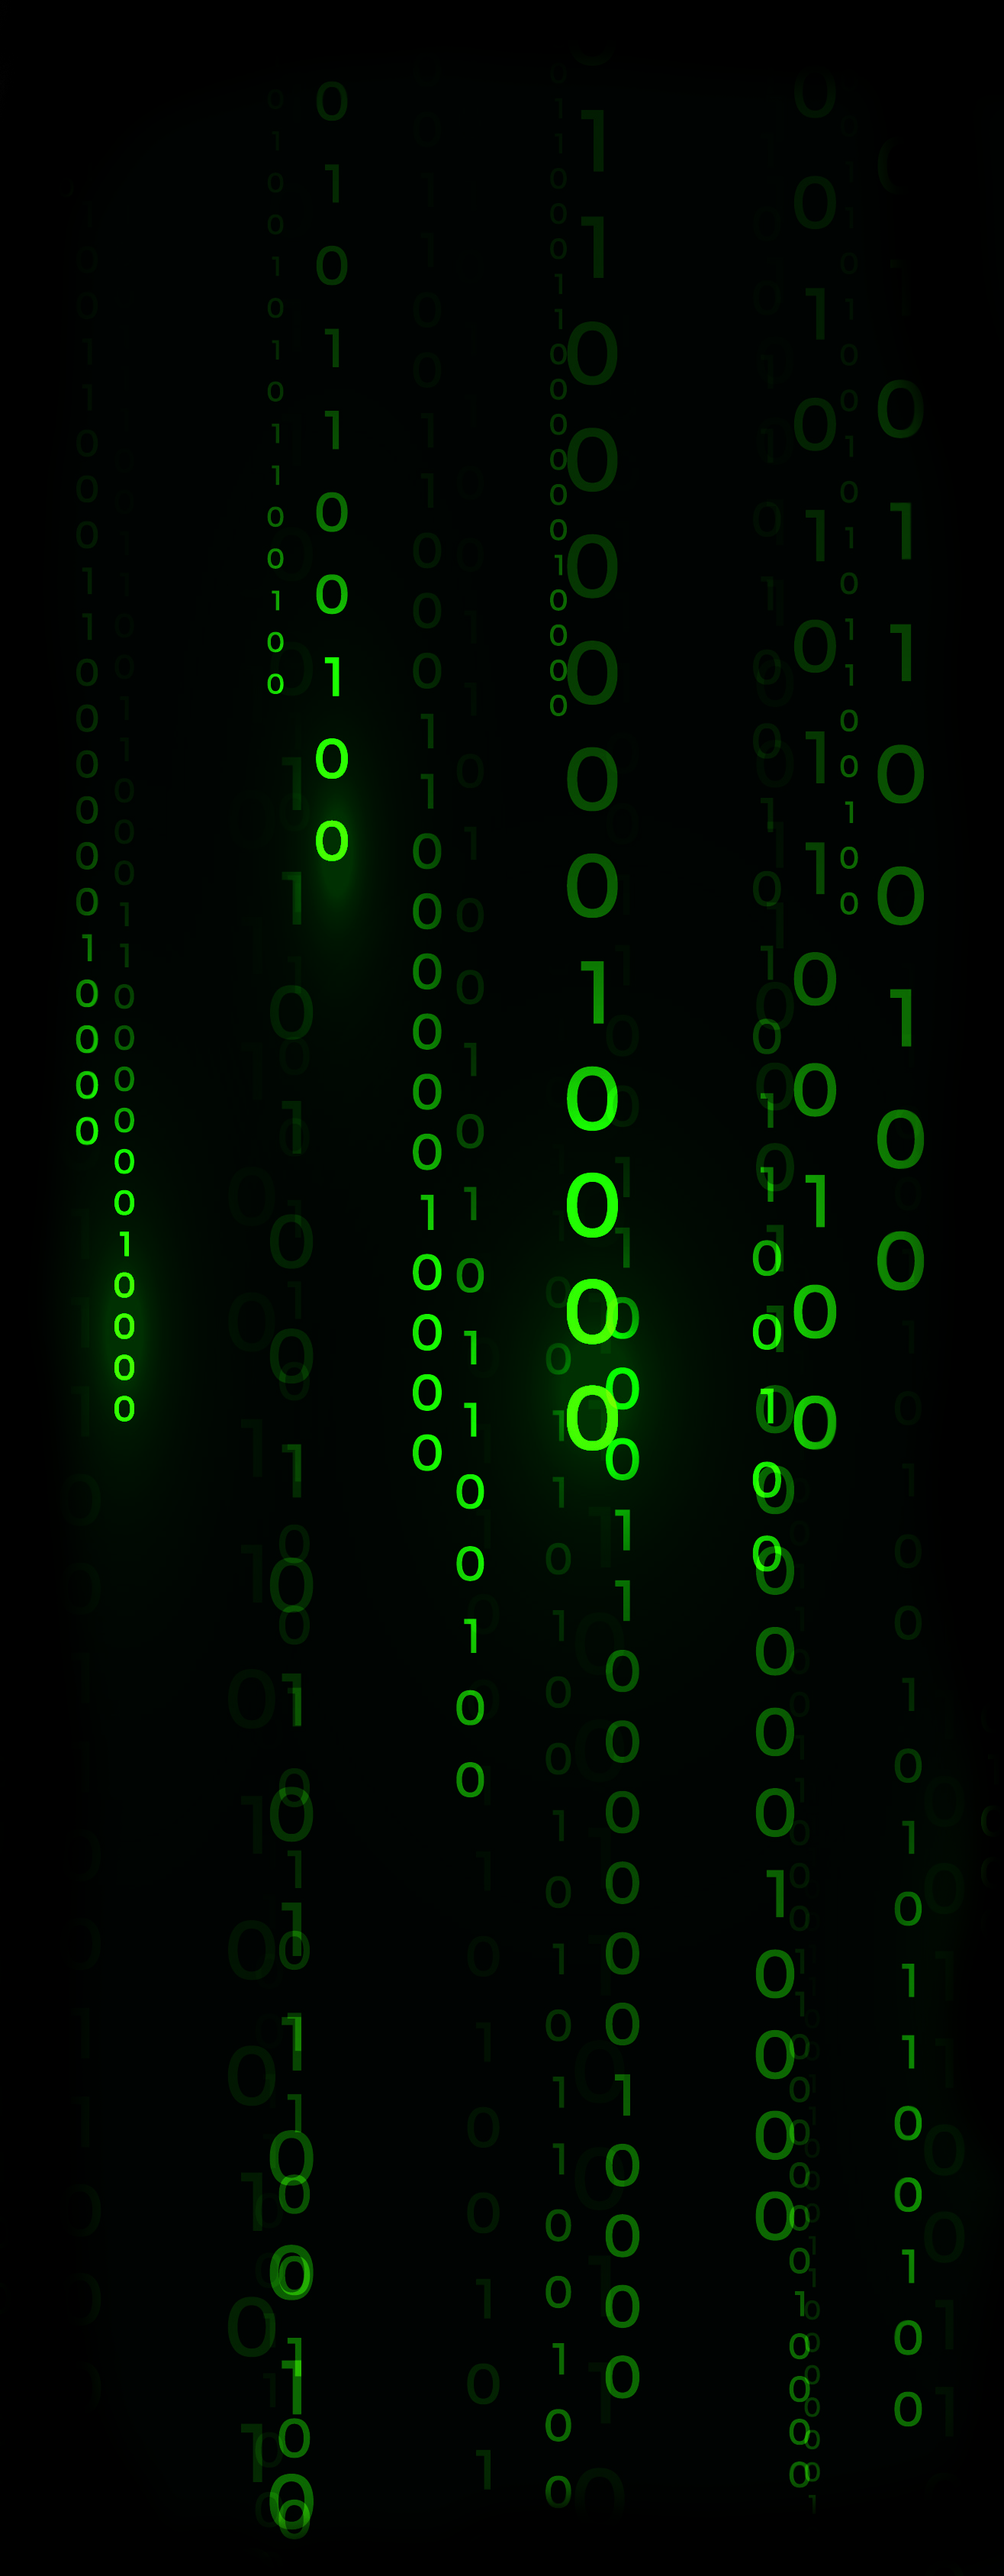
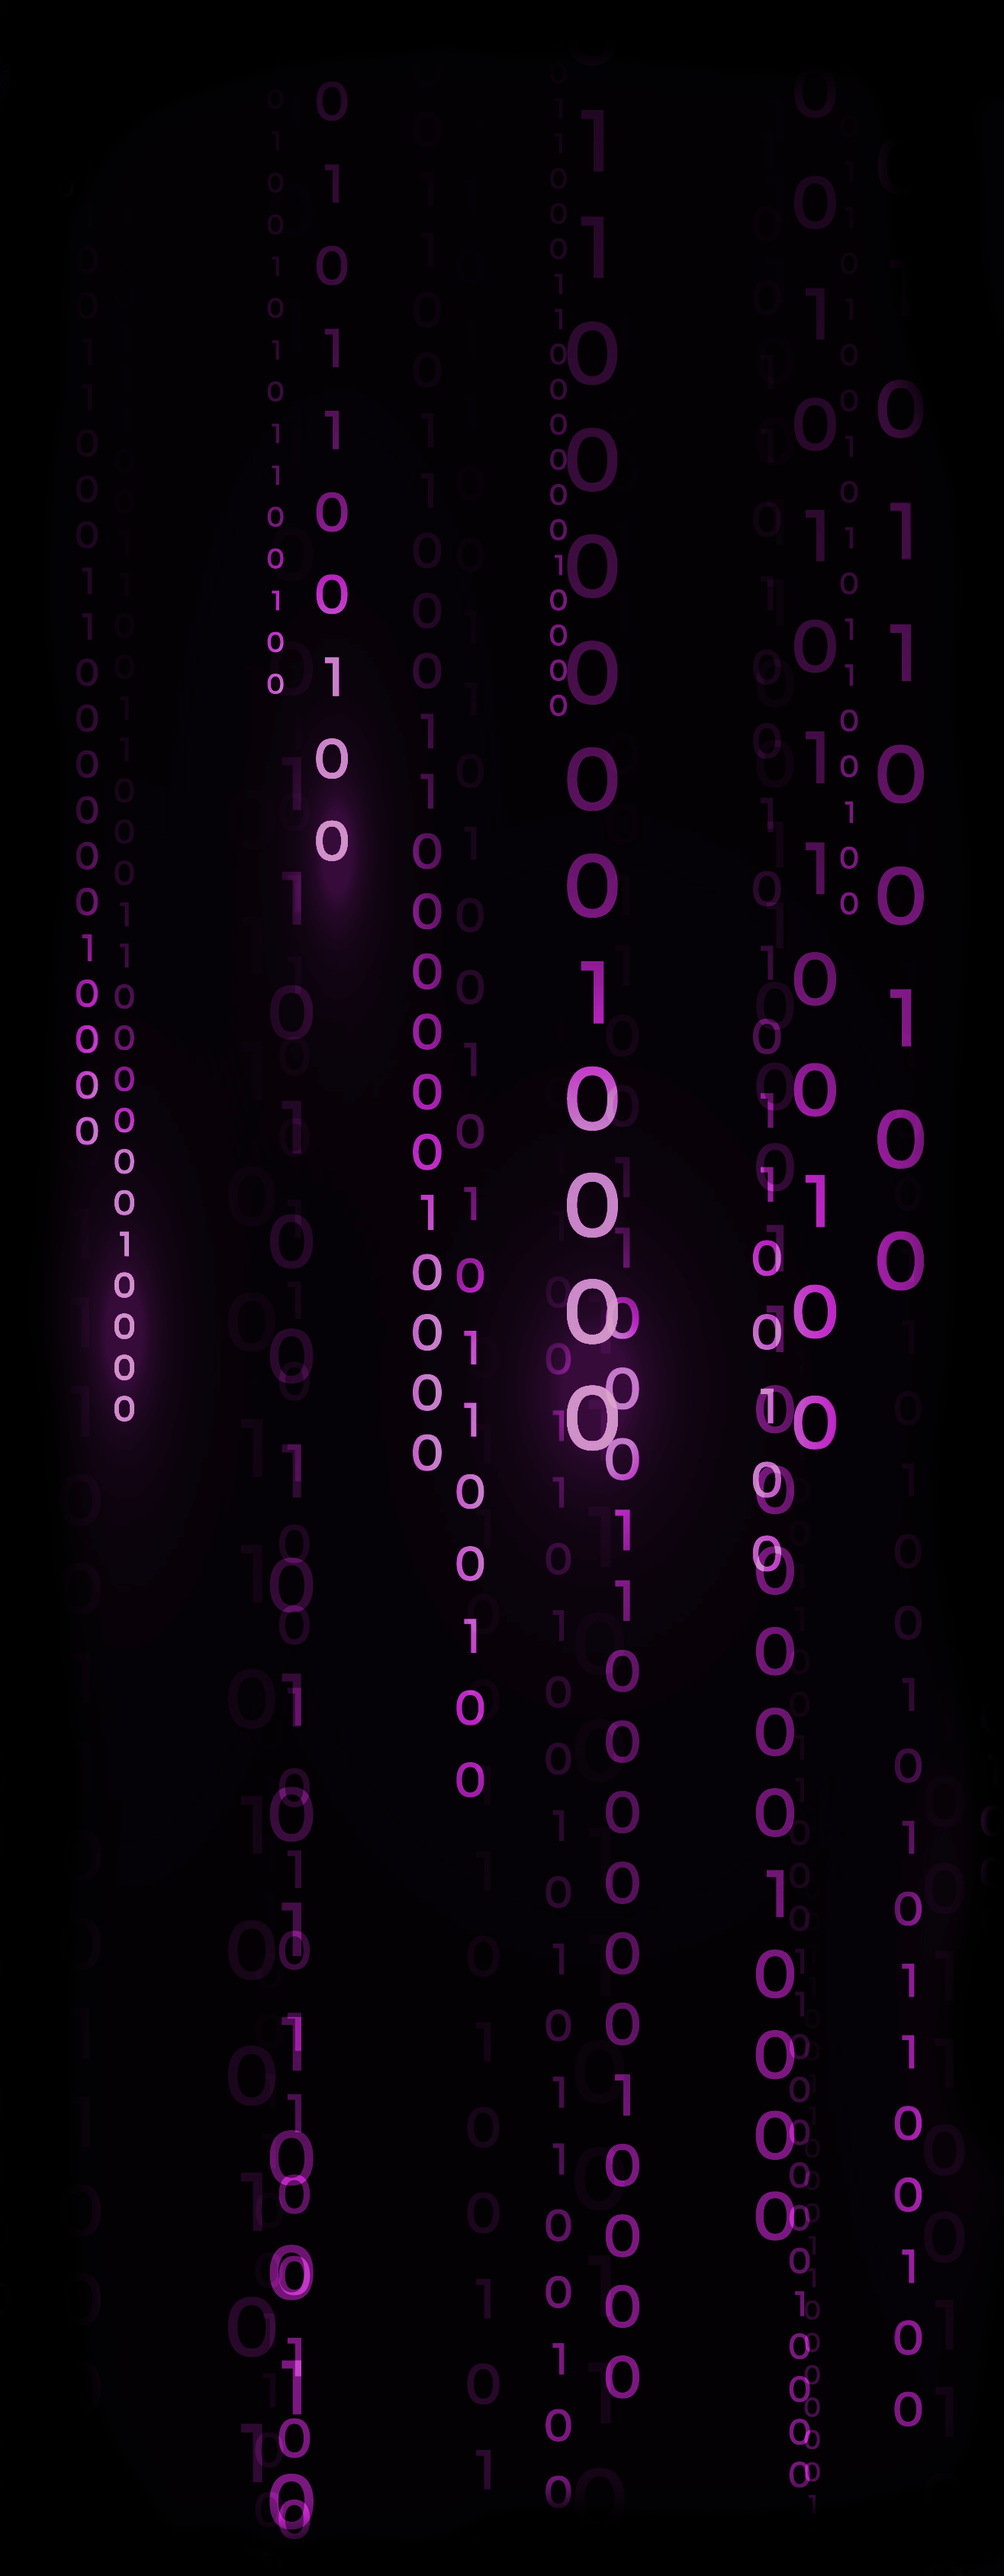
Maj: animations

diff --git a/src/layout/Header/Header.module.scss b/src/layout/Header/Header.module.scss
@@ -19,12 +19,21 @@ header{
     }
     
     .logo{  
-        flex: 0.2;
+        transform: rotate(0deg);
+        z-index: 111111;
+        animation: rotate 500ms;
+
+        &:hover{
+            transform-origin: center;
+            transform: rotate(360deg);
+            transition: 500ms;
+        }
         img{
             border: 3px solid variables.$secondary-color;
             border-radius: 50%;
             width: 70px;
             height: 70px;
+
 
             @media screen and (max-width: variables.$breakpoint-tablette) {
                 width: 60px;
@@ -138,5 +147,14 @@ header{
     }
     50% {
         border-color: variables.$secondary-color;
+    }
+}
+
+@keyframes rotate{
+    0%{
+        transform: rotate(0);
+    }
+    100%{
+        transform: rotate(360deg);
     }
 }

diff --git a/src/components/Banner/Banner.module.scss b/src/components/Banner/Banner.module.scss
@@ -9,7 +9,9 @@
     &__bg{
         position: absolute;
         top:0;
-        left:-30px;
+        left:-20px;
+        animation: wind 700ms ease-in-out forwards;
+  
 
         @media screen and (max-width: variables.$breakpoint-tablette) {
             width: 150px;
@@ -25,5 +27,14 @@
             width: 100px;
             height: 550px;
         }
+    }
+}
+
+@keyframes wind{
+    0%{
+        transform: translateY(-100px);
+    }
+    100%{
+        transform: translateY(0px);
     }
 }

diff --git a/src/sass/utils/_variables.scss b/src/sass/utils/_variables.scss
@@ -1,6 +1,6 @@
 $primary-color: white;
-$secondary-color: #0a8973;
-$tertiary-color: violet;
+$secondary-color:  #c139c7;
+$tertiary-color: #0a8973;
 $fourth-color: #F6F6F6;
 $footer-color: #000000;
 
